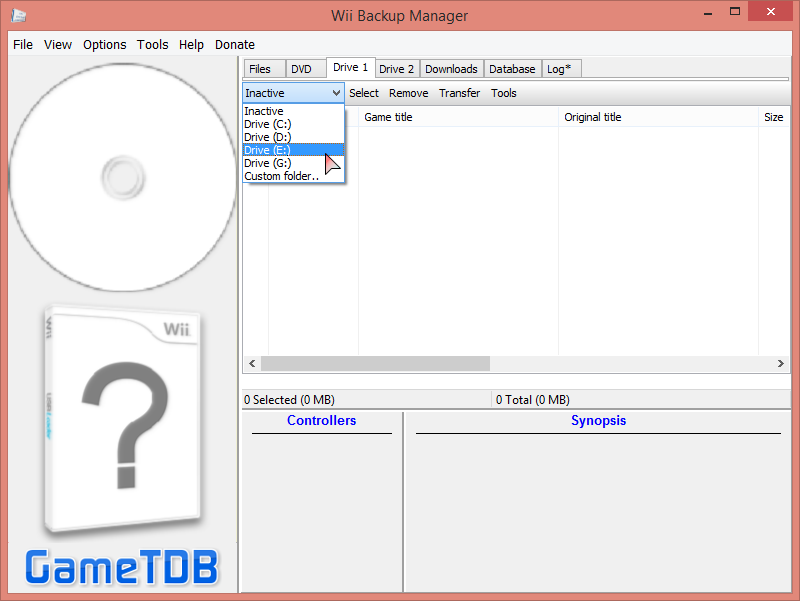
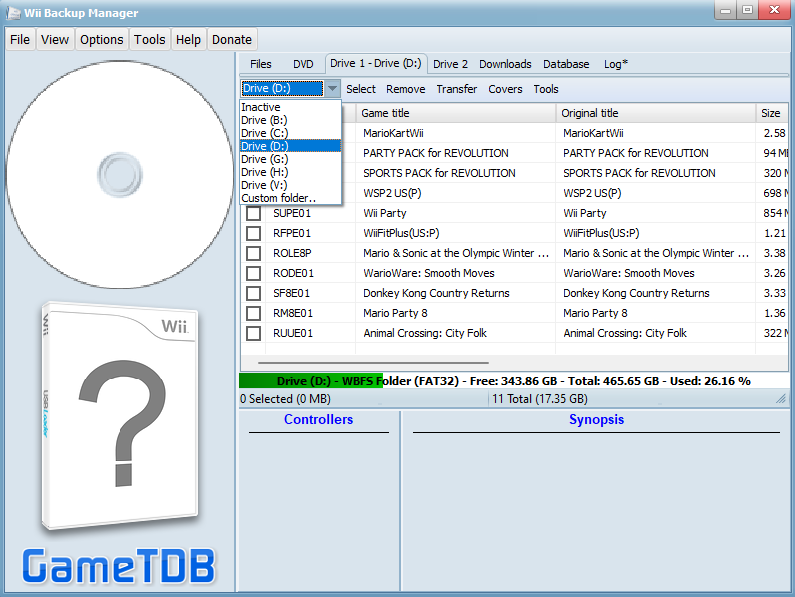
Overhaul of Wii/GameCube game dumping guides

diff --git a/_pages/en_US/dump-games.md b/_pages/en_US/dump-games.md
@@ -4,7 +4,7 @@ title: "Dumping Wii/GameCube games"
 
 {% include toc title="Table of Contents" %}
 
-This guide covers dumping GameCube or Wii game discs. You can either dump directly to an SD card or USB drive, or over the local network.
+This guide covers dumping GameCube or Wii game discs to a local SD card or USB drive on your Wii.
 
 ### Dumping a Disc to SD/USB (CleanRip)
 
@@ -13,10 +13,7 @@ This guide covers dumping GameCube or Wii game discs. You can either dump direct
 + An SD card or USB drive with at least 4.7 GB of free space (8.5 GB if dumping a dual layer disc).
 + [CleanRip](https://oscwii.org/library/app/cleanrip)
 
-#### Instructions
-
-If you are dumping one of the 13 games on [this list](https://wiki.dolphin-emu.org/index.php?title=Category:Dual_Layer_Disc_games), set `Dual Layer` in Step 6 to `Yes`.
-{: .notice--info}
+#### Preparation
 
 1. Power off your console.
 1. Insert your SD card or USB drive into your computer.
@@ -25,96 +22,76 @@ If you are dumping one of the 13 games on [this list](https://wiki.dolphin-emu.o
 1. Power on your console.
 1. Launch the Homebrew Channel.
 1. Launch CleanRip from the list of homebrew.
+1. When prompted, select `Yes` to calculate disc checksums.
+
+    ![](/images/homebrew/CleanRip/checksum.png)
+
 1. Select your device that you will be dumping the game to - a USB device or SD card.
 
-    ![](/images/homebrew/CleanRip/2.png)
+    ![](/images/homebrew/CleanRip/device.png)
+
+1. Select the filesystem type of the device - in most cases it will be FAT (FAT32).
+
+    ![](/images/homebrew/CleanRip/filesystem.png)
+
+1. Ensure that your device is connected to the system and press A to proceed.
+
+    ![](/images/homebrew/CleanRip/insertdevice.png)
 
 1. When prompted, select `Yes` to download the redump.org DAT files.
     + This is required to ensure that the resulting dumps are clean/accurate.
 
-    You may get an exception error if you do this. If so, simply skip and verify your dump on Dolphin Emulator if needed.
+    You may get an exception error if you do this. If so, restart your Wii and try again - but if you continue to get exception errors, dump the disc and verify the checksum in Dolphin instead if needed.
     {: .notice--warning}
 
-    ![](/images/homebrew/CleanRip/3.png)
+    ![](/images/homebrew/CleanRip/redump.png)
 
-1. Insert the game disc you would like to dump.
+1. Insert the game disc you would like to dump, and press A to continue.
 
-    ![](/images/homebrew/CleanRip/4.png)
+    ![](/images/homebrew/CleanRip/insertdisc.png)
+
+### Dumping a Wii Disc
+
+As of v2.1.2 of CleanRip, there is an option to auto-detect whether or not the disc you have is dual layer. If you are on an earlier version, or just want to verify that the correct option is being selected, you can check [this list](https://wiki.dolphin-emu.org/index.php?title=Category:Dual_Layer_Disc_games) to see if your game is a dual layer disc.
+{: .notice--info}
+
+If you get an unrecovered read error, ensure that the disc you are attempting to dump is clean and can be properly read by the console. Even though you may be able to play the game disc normally, you may still get this error. If the error persists, try to dump another disc and see if the same error happens.
+{: .notice--warning}
+
+1. When prompted, select if your disc is an unlicensed Datel disc. If unsure, select `No`.
+
+    ![](/images/homebrew/CleanRip/dateldisc.png)
 
 1. Set the settings as shown on the screen below, while verifying if your game disc is dual layer or not.
 
-    ![](/images/homebrew/CleanRip/6.png)
+    ![](/images/homebrew/CleanRip/wiisettings.png)
 
 1. Press A to start dumping the disc.
-    + This process can take quite some time, since it will dump the full 4.7 GB disc contents (8.5 GB for dual layer discs).
+    + This process can take quite some time, since it will dump all 4.7 GB of the DVD (8.5 GB for dual layer discs).
 
-    ![](/images/homebrew/CleanRip/7.png)
+    ![](/images/homebrew/CleanRip/wiiprogress.png)
 
-1. Proceed to [joining PART files](dump-games#joining-part-files-on-a-fat32-device).
+1. When the dump finishes, you should see a screen with the MD5 checksum of your disc, compared to the Redump DAT if you enabled it.
 
-### Dumping a Disc over LAN (Wii DVD Dumper)
+    ![](/images/homebrew/CleanRip/wiidumpcomplete.png)
 
-#### Requirements
-
-+ A Windows/macOS/Linux PC with an internet connection
-+ [DVD Dump Tool](/assets/files/DVDDumpTool.zip)
-
-#### Instructions
-
-Download speeds will be slow due to limitations in the network hardware of the Wii, but it remains a valid solution if you are willing to be patient.
+Proceed to [Managing Wii Backups](wii-backups) to join the PART files that are output, and manage your dumped games.
 {: .notice--info}
 
-Your Wii and your computer must be connected to the same local network.
-{: .notice--warning}
+### Dumping a GameCube Disc
 
-1. Copy the `DVDDumpTool` folder from the DVDDumpTool `.zip` to the root of your SD card or USB drive.
-1. Reinsert your SD card or USB drive into your console.
-1. Power on your console.
-1. Launch the Homebrew Channel.
-1. Launch DVD Dump Tool from the list of homebrew.
-1. Press right on the D-pad, then press A.
-1. Choose the disc that you want to copy (The options are: `GameCube Disc`, `Wii Single-Layer Disc`, `Wii Dual-Layer Disc`) and press "A"
+1. When prompted, select if your disc is an unlicensed Datel disc. If unsure, select `No`.
 
-    ![](/images/homebrew/DumpDiscs_LAN/2.png)
-1. Insert the game disc into your Wii.
-    + If it is already inserted, eject and reinsert the disc.
+    ![](/images/homebrew/CleanRip/dateldisc.png)
 
-    ![](/images/homebrew/DumpDiscs_LAN/insertthedisc.jpg)
-1. Select the proper disc type.
+1. Press A to start dumping the disc.
+    + This process can take some time, since it will dump all 1.3 GB of the Mini DVD.
 
-    ![](/images/homebrew/DumpDiscs_LAN/3.png)
-1. Press any button to begin the dumping process.
+    ![](/images/homebrew/CleanRip/gcprogress.png)
 
-    ![](/images/homebrew/DumpDiscs_LAN/4.png)
-1. Remember or write down your Wii's URL (IP address).
-1. On your computer, open the browser, go to your address bar and enter the Wii URL.
+1. When the dump finishes, you should see a screen with the MD5 checksum of your disc, compared to the Redump DAT if you enabled it.
 
-    ![](/images/homebrew/DumpDiscs_LAN/5.png)
-1. Click on `Click here to download XXXX.iso`.
-1. Proceed to [joining PART files](dump-games#joining-part-files-on-a-fat32-device).
+    ![](/images/homebrew/CleanRip/gcdumpcomplete.png)
 
-### Joining PART files on a FAT32 device
-
-If you dumped the disc (regardless if it was to a PC or Wii) on a FAT32 formatted device, you should have gotten at least two files that end with `.partX.iso`. They need to be joined.
-{: .notice--info}
-
-#### Windows
-
-1. Copy the files that share the same name and end with `.partX.iso` into an empty folder on your computer.
-1. In this folder, click the address bar in Windows Explorer and copy its PATH.
-1. Open a PowerShell or Windows Terminal window.
-1. Run `cd [PATH]`.
-1. Type `copy /b *.part?.iso game.iso` and press enter.
-1. Wait until the merging process finishes.
-    + It should end with the terminal outputting `1 file(s) copied`.
-
-#### macOS/Linux
-
-1. Copy the files that share the same name and end with `.partX.iso` into an empty folder on your computer.
-1. Open up a Terminal.
-1. Run `cd [PATH]`, replacing [PATH] with the folder path to your `.partX.iso` files.
-1. Use the following command as is: `cat \*.part?.iso > game.iso`.
-1. Wait until the merging process finishes.
-
-To organize the games on your drive properly, you can use [Wii Backup Manager](wiibackupmanager).
-{: .notice--info}
+Proceed to [Managing GameCube Backups](gc-backups) to shrink the size of your output file, and manage your dumped games.
+{. notice--info}

diff --git a/_pages/en_US/wii-backups.md b/_pages/en_US/wii-backups.md
@@ -1,0 +1,137 @@
+---
+title: "Managing Wii Backups"
+---
+
+{% include toc title="Table of Contents" %}
+
+This guide provides instructions on how to manage your Wii backups, from joining .PART files that are output through CleanRip, to shrinking game files that can be copied onto a FAT32 device. Two programs that can be used to manage your Wii backups are Wii Backup Manager (for Windows) and Wii Backup Fusion (for Linux and MacOS) and are covered below.
+
+For storing multiple games, we recommend an external hard drive for your Wii. Most of those found on the market should work fine.
+{: .notice--info}
+
+A flash drive is not recommended, as they are small and may vary in behavior even between the same product. <br>
+As an alternative, you may simply use an SD card, however the Wii's SD card slot will be slow.
+{: .notice--info}
+
+Make sure your USB drive is formatted as FAT32. Do not format it as other types such as exFAT, extFS. <br>
+You may format it as NTFS, but it won't work with a majority of apps (eg. The Homebrew Channel, Nintendont)
+{: .notice--info}
+
+### Joining PART files on a FAT32 device
+
+If your disc was dumped to a FAT32 device, you should have gotten at least two files that end with `.partX.iso`, due to filesystem limitations. They need to be joined (on a supported filesystem like NTFS) so the file can be read correctly.
+{: .notice--info}
+
+#### Windows
+
+1. Copy the files that share the same name and end with `.partX.iso` into an empty folder on your computer.
+
+    ![](/images/desktop-apps/WBM/dumpedpartfiles.png)
+
+1. In this folder, click the address bar in Windows Explorer and type in `cmd`, this will open a command prompt window there.
+
+    ![](/images/desktop-apps/WBM/opencmd.png)
+1. Type `copy /b *.part?.iso game.iso` and press enter. Wait for the command to finish, your terminal output should be similar to the below.
+
+    ![](/images/desktop-apps/WBM/joinpartfiles.png)
+
+1. If the copy process executed correctly, the checksum from the game dump info file (located where you dumped your disc at) should match the resulting joined file.
+
+    ![](/images/desktop-apps/WBM/filemd5.png)
+
+#### macOS/Linux
+
+1. Copy the files that share the same name and end with `.partX.iso` into an empty folder on your computer.
+
+    ![](/images/desktop-apps/WBM/dumpedpartfileslinux.png)
+
+1. Open a terminal in the directory where your files are at, or `cd [PATH]` to it.
+
+    ![](/images/desktop-apps/WBM/openterminallinux.png)
+
+1. Use the following command as is: ```cat `ls *.part?.iso | sort` > game.iso```. Then, wait for the merging process to finish. Like in Windows, the resulting checksum should match the dump.
+
+    ![](/images/desktop-apps/WBM/mergesuccesslinux.png)
+
+### Using Wii Backup Manager
+
+#### Requirements
+
+* A PC running Windows
+* A USB drive or SD card
+* A dumped ISO from a Wii game disc
+* [Wii Backup Manager](https://static.wiidatabase.de/Wii-Backup-Manager.zip)
+
+#### Section I - Installation
+
+1. Extract Wii Backup Manager, and launch the program.
+1. Insert your USB drive or SD card into your computer.
+
+#### Section II - Copying Games
+
+1. Go to the `Drive 1` tab, then select the drive that will hold your backed up Wii games.
+
+    ![](/images/desktop-apps/WBM/select_drive.png)
+
+1. Go to the `Files` tab, then select `Add`.
+    + Select `Files` to add multiple games to the program, or select `Folder` to add a whole folder of games.
+
+    ![](/images/desktop-apps/WBM/select_games.png)
+
+1. Go to `Select`, then click `Games not on drive 1`.
+
+    ![](/images/desktop-apps/WBM/select_games2.png)
+
+1. Select `Transfer`, then select `Drive 1` to transfer the games over. The progress will be displayed on the right side of the window.
+
+    ![](/images/desktop-apps/WBM/transfer_todrive.png)
+
+### Using Wii Backup Fusion
+
+#### Requirements
+
+* A PC running MacOS or Linux
+* A USB drive or SD card
+* A dumped ISO from a Wii game disc
+* [Wii Backup Fusion](https://github.com/larsenv/Wii-Backup-Fusion)
+* [Wiimm's ISO Tools](https://wit.wiimm.de/download.html)
+
+#### Section I - Installation
+
+1. Download Wiimm's ISO tools for your OS and extract the .tar.gz into a folder that you can access with the terminal. The extracted folder should have these files inside:
+
+    ![](/images/desktop-apps/WBM/witinstallfolder.png)
+
+1. Open a terminal in the folder that you just extracted, and run `sudo ./install.sh`.
+1. Download Wii Backup Fusion for your OS and install. If on Linux, you will need to make the appimage executable by running `chmod +x [FILE]`.
+
+#### Section II - Copying Games
+
+1. Open Wii Backup Fusion and press `Load`.
+
+    ![](/images/desktop-apps/WBM/loadwbf.png)
+
+1. Select the directory where your game ISO is at.
+
+    ![](/images/desktop-apps/WBM/opendirectorywbf.png)
+
+1. Right click on the game that you want to transfer to a drive, and press `Transfer to image`. Use the following settings:
+
+    ![](/images/desktop-apps/WBM/settingswbf.png)
+
+ 1. If there is not already a `wbfs` directory on your game drive, make one.
+
+ 1. Make another directory inside of the `wbfs` folder for the game backup. Take note of the Game ID in Wii Backup Fusion as you will need this for the game folder.
+
+ 1. Make a game folder for your game, formatted as `game name [GAMEID]`. For the game dumped as an example in this guide, it would be named `New Super Mario Bros. Wii [SMNE01]`.
+
+    ![](/images/desktop-apps/WBM/wbfsname.png)
+
+1. Copy the game.wbfs file that was made in Step 3 to this new folder. The drive should be ready to use on a Wii.
+
+[Continue to cIOS](cios)<br>
+cIOS is needed for your Wii to use a USB Loader. Once this is done, you can use [USB Loader GX or WiiFlow](wii-loaders) to play games from your USB drive or SD card.
+{: .notice--info}
+
+[Click here to go back to the site index.](site-navigation)
+{: .notice--info}

diff --git a/_pages/en_US/gc-backups.md b/_pages/en_US/gc-backups.md
@@ -1,10 +1,10 @@
 ---
-title: "GameCube Backup Manager"
+title: "Managing GameCube Backups"
 ---
 
 {% include toc title="Table of Contents" %}
 
-GameCube Backup Manager is a convenient PC software that simplifies the process of transferring GameCube games to your USB drive or SD Card. It functions similar to the popular tool called [Wii Backup Manager](wiibackupmanager), allowing you to easily manage and organize your GameCube game backups. With this program, you can effortlessly copy your favorite GameCube games onto portable storage devices, making them readily accessible for future gaming sessions.
+This guide provides instructions on how to manage your GameCube backups, using GameCube Backup Manager. It functions similar to [Wii Backup Manager](wii-backups#using-wii-backup-manager).
 
 ### Requirements
 
@@ -27,11 +27,22 @@ Make sure your USB drive is formatted as FAT32. Do not format it as other types 
 #### Section II - Copying Games Over
 
 1. Open the application and locate the folder button in the bottom right corner. Click on it to open the file explorer window.
-1. Navigate to the location of the game file you want to transfer. This could be on your computer's hard drive or an external storage device. Once you find the file, select it by clicking on it.
+
+    ![](/images/desktop-apps/GCBM/folderbutton.png)
+
+1. Navigate to the location of the folder that contains the game file you want to transfer. This could be on your computer's hard drive or an external storage device. Once you find the folder, select it.
+
+    ![](/images/desktop-apps/GCBM/selectfolder.png)
+
 1. Click on the `Files (Destination)` tab, then select the `Inactive` option from the dropdown menu. This will allow you to choose the drive where you want to transfer the game. Select the appropriate drive letter from the list.
+
+    ![](/images/desktop-apps/GCBM/selectdrive.png)
+
 1. Next, go back to the `Files (Source)` tab, select the game you want to transfer, and then click either `Install Game (1:1)` or `Install Game (Scrub)`.
 
-Selecting `Install Game (Scrub)` will remove unnecessary data from the game, reducing the game's file size.
+    ![](/images/desktop-apps/GCBM/installgame.png)
+
+Selecting `Install Game (Scrub)` will remove unnecessary data from the game, reducing the game's file size. For some games this can be a major reduction, for example with Animal Crossing - going from 1.3GB to around 26MB.
 {: .notice--info}
 
 [Click here to go back to the site index.](site-navigation)

diff --git a/_pages/en_US/site-navigation.md b/_pages/en_US/site-navigation.md
@@ -54,16 +54,16 @@ sitemap: false
 {% capture notice-5 %}
 **Homebrew**
 + [Creating Wii Game Shortcuts](wiigsc)
-+ [GameCube Backup Manager](gcbackupmanager)
 + [How to dump Channels (WADs)](dump-wads)
 + [How to dump GameCube/Wii Games](dump-games)
-+ [RSSMii](rssmii)
++ [Managing GameCube Backups](gc-backups)
 + [Managing GameCube Save Files](gcsaves)
++ [Managing Wii Backups](wii-backups)
 + [Priiloader Usage](priiloader-usage)
 + [Recommended Homebrew](recommended-homebrew)
++ [RSSMii](rssmii)
 + [USB Loaders](wii-loaders)
 + [Using SysCheck](syscheck)
-+ [Wii Backup Manager](wiibackupmanager)
 + [Wii Themes Guide](themes)
 {% endcapture %}
 <div class="notice--primary">{{ notice-5 | markdownify }}</div>
